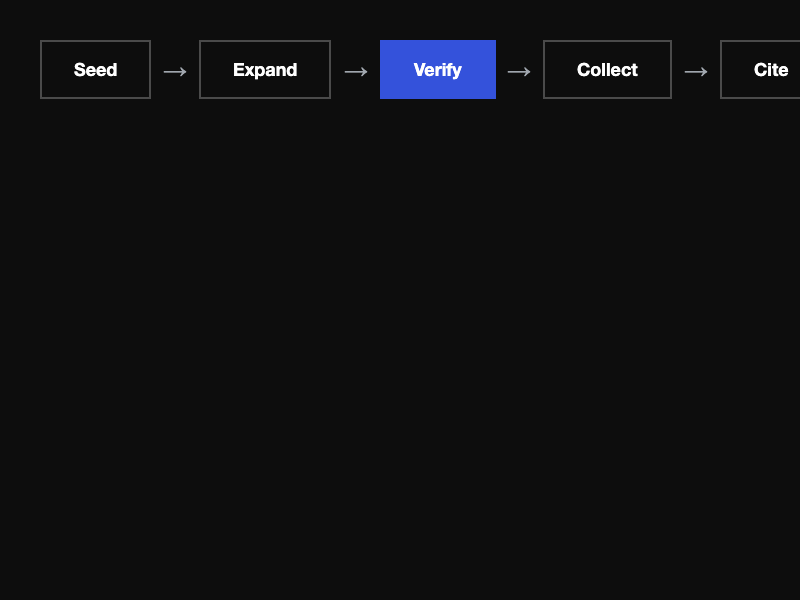
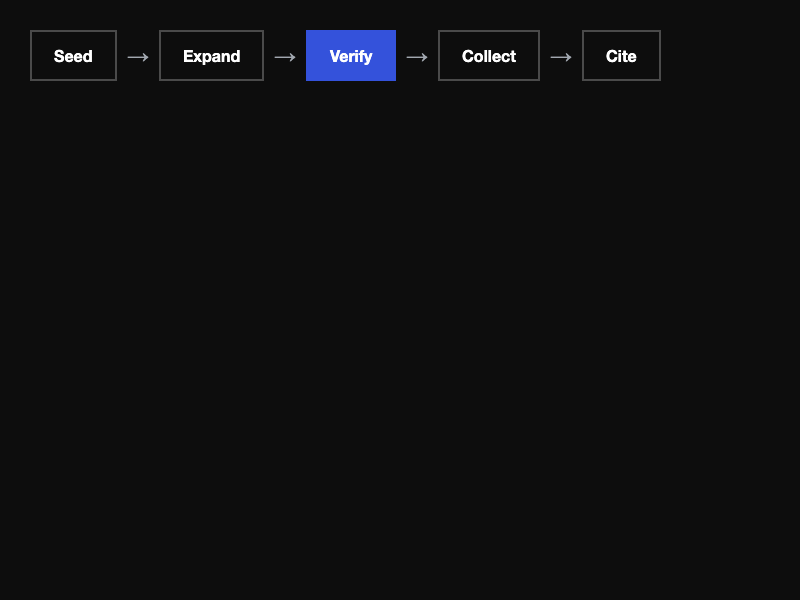
fix: pipeline Cite box clipped, ghost 7%% double-percent, remove slide 13 GIF
- Slide 11: reduced box padding/font so all 5 steps fit in 800px
- Slide 24: fixed %% → % (manual replacement, not Python formatting)
- Slide 13: removed redundant stat counter GIF overlay
- Down to 7 curated GIF overlays

Changed region(s): [[0.0312, 0.03, 0.8438, 0.18], [0.9062, 0.06, 1.0, 0.18], [0.875, 0.09, 0.9062, 0.15]]

diff --git a/build_google_slides.py b/build_google_slides.py
@@ -1,0 +1,178 @@
+#!/usr/bin/env python3
+"""
+Build the SEO Week 2026 presentation in Google Slides.
+Sets PNG backgrounds from GitHub raw URLs + adds curated GIF overlays.
+"""
+
+import os
+import pickle
+from pathlib import Path
+
+from google.auth.transport.requests import Request
+from google_auth_oauthlib.flow import InstalledAppFlow
+from googleapiclient.discovery import build
+
+SCOPES = ["https://www.googleapis.com/auth/presentations"]
+CREDS_FILE = "credentials.json"
+TOKEN_FILE = "token.pickle"
+
+REPO = "https://raw.githubusercontent.com/cyberandy/infinite-context/main"
+
+# ── Slide order (matches slides_v2/) ──────────────────
+SLIDES = [
+    "01_title", "02_weight_problem", "03_query_to_journey", "04_three_shifts",
+    "05_compression_paradox", "06_turboquant", "07_silent_ranking", "08_zero_bias",
+    "09_quant_landscape", "10_turbo_demo", "11_navigator", "12_rlm_demo",
+    "13_conditional_advantage", "14_separation", "15_model_gap", "17_distillation",
+    "18_slm_edge", "19_connected_data", "20_floor_set", "21_moat_graph",
+    "22_seo_playbook_chapter", "23_visibility_shift", "24_ghost_citations",
+    "25_gpt_reads_differently", "26_consistency_not_crawling", "27_explore_verify_cite",
+    "28_autoResearch", "29_well_connected", "30_closing",
+]
+
+# ── Curated GIF overlays (only the ones that earn their pixels) ──
+GIF_MAP = {
+    "06_turboquant": "06_turboquant_counter",
+    "11_navigator": "11_pipeline_steps",
+    "12_rlm_demo": "12_graph_nodes",
+    "17_distillation": "17_distillation_pipeline",
+    "20_floor_set": "20_checklist",
+    "24_ghost_citations": "24_ghost_counter",
+    "26_consistency_not_crawling": "26_consistency_bars",
+}
+
+EMU_PER_PX = 9525  # EMUs per pixel
+SLIDE_W = 1920 * EMU_PER_PX
+SLIDE_H = 1080 * EMU_PER_PX
+GIF_W = 800 * EMU_PER_PX
+GIF_H = 600 * EMU_PER_PX
+
+
+def authenticate():
+    creds = None
+    if os.path.exists(TOKEN_FILE):
+        with open(TOKEN_FILE, "rb") as f:
+            creds = pickle.load(f)
+    if not creds or not creds.valid:
+        if creds and creds.expired and creds.refresh_token:
+            creds.refresh(Request())
+        else:
+            flow = InstalledAppFlow.from_client_secrets_file(CREDS_FILE, SCOPES)
+            creds = flow.run_local_server(port=0)
+        with open(TOKEN_FILE, "wb") as f:
+            pickle.dump(creds, f)
+    return creds
+
+
+def main():
+    print("Authenticating...")
+    creds = authenticate()
+    service = build("slides", "v1", credentials=creds)
+
+    # 1. Create presentation
+    print("Creating presentation...")
+    pres = service.presentations().create(
+        body={"title": "Structure Is the Moat — SEO Week 2026"}
+    ).execute()
+    pres_id = pres["presentationId"]
+    print(f"  ✓ Created: https://docs.google.com/presentation/d/{pres_id}")
+
+    # The new presentation has 1 blank slide — we'll use it for slide 01
+    # and add 28 more
+    existing = pres["slides"]
+    first_slide_id = existing[0]["objectId"]
+
+    # 2. Build batch requests
+    requests = []
+
+    # Create 28 additional blank slides (we already have 1)
+    for i in range(1, len(SLIDES)):
+        slide_id = f"slide_{i:02d}"
+        requests.append({
+            "createSlide": {
+                "objectId": slide_id,
+                "insertionIndex": i,
+                "slideLayoutReference": {"predefinedLayout": "BLANK"},
+            }
+        })
+
+    # Submit slide creation
+    if requests:
+        print(f"  Adding {len(requests)} slides...")
+        service.presentations().batchUpdate(
+            presentationId=pres_id, body={"requests": requests}
+        ).execute()
+
+    # 3. Re-fetch to get all slide IDs
+    pres = service.presentations().get(presentationId=pres_id).execute()
+    all_slides = pres["slides"]
+    print(f"  ✓ Total slides: {len(all_slides)}")
+
+    # 4. Set backgrounds + add GIF overlays
+    requests = []
+    for idx, slide_name in enumerate(SLIDES):
+        slide_obj = all_slides[idx]
+        page_id = slide_obj["objectId"]
+        png_url = f"{REPO}/slides_v2/{slide_name}.png"
+
+        # Set background
+        requests.append({
+            "updatePageProperties": {
+                "objectId": page_id,
+                "pageProperties": {
+                    "pageBackgroundFill": {
+                        "stretchedPictureFill": {
+                            "contentUrl": png_url,
+                        }
+                    }
+                },
+                "fields": "pageBackgroundFill",
+            }
+        })
+
+        # Add GIF overlay if curated
+        if slide_name in GIF_MAP:
+            gif_name = GIF_MAP[slide_name]
+            gif_url = f"{REPO}/content_animations_v2/{gif_name}.gif"
+            img_id = f"gif_{idx:02d}"
+
+            # Center the GIF on the slide
+            left = (SLIDE_W - GIF_W) // 2
+            top = (SLIDE_H - GIF_H) // 2
+
+            requests.append({
+                "createImage": {
+                    "objectId": img_id,
+                    "url": gif_url,
+                    "elementProperties": {
+                        "pageObjectId": page_id,
+                        "size": {
+                            "width": {"magnitude": GIF_W, "unit": "EMU"},
+                            "height": {"magnitude": GIF_H, "unit": "EMU"},
+                        },
+                        "transform": {
+                            "scaleX": 1,
+                            "scaleY": 1,
+                            "translateX": left,
+                            "translateY": top,
+                            "unit": "EMU",
+                        },
+                    },
+                }
+            })
+
+    # Submit in batches (API limit ~500 per batch)
+    batch_size = 50
+    for i in range(0, len(requests), batch_size):
+        batch = requests[i:i + batch_size]
+        print(f"  Applying requests {i+1}–{i+len(batch)} of {len(requests)}...")
+        service.presentations().batchUpdate(
+            presentationId=pres_id, body={"requests": batch}
+        ).execute()
+
+    print(f"\n✓ Done! Open your presentation:")
+    print(f"  https://docs.google.com/presentation/d/{pres_id}/edit")
+
+
+if __name__ == "__main__":
+    main()

diff --git a/generate_animations_v2.py b/generate_animations_v2.py
@@ -243,11 +243,11 @@ ANIMATIONS = [
     ("11_pipeline_steps", "dark", """
     <style>
     @keyframes stepIn{from{opacity:0.15;transform:scale(0.95)}to{opacity:1;transform:scale(1)}}
-    .step{padding:16px 32px;font-size:18px;font-weight:700;border:2px solid rgba(255,255,255,0.25);
+    .step{padding:14px 22px;font-size:16px;font-weight:700;border:2px solid rgba(255,255,255,0.25);
           opacity:0.15;animation:stepIn 0.4s ease-out forwards;font-family:%(font)s;color:white;}
-    .arrow{color:%(gray)s;font-size:24px;opacity:0.15;animation:stepIn 0.3s ease-out forwards;}
+    .arrow{color:%(gray)s;font-size:22px;opacity:0.15;animation:stepIn 0.3s ease-out forwards;}
     </style>
-    <div style="display:flex;align-items:center;gap:12px;padding:40px;">
+    <div style="display:flex;align-items:center;gap:10px;padding:30px;">
       <div class="step" style="animation-delay:0s;">Seed</div>
       <div class="arrow" style="animation-delay:0.3s;">→</div>
       <div class="step" style="animation-delay:0.5s;">Expand</div>
@@ -487,7 +487,7 @@ ANIMATIONS = [
     color:%(berry)s;animation:count7 1.5s steps(5) forwards;}
     </style>
     <div style="padding:40px;font-family:%(font)s;">
-      <div><span class="num"></span><span style="font-size:160px;font-weight:900;color:%(berry)s;">%%</span></div>
+      <div><span class="num"></span><span style="font-size:160px;font-weight:900;color:%(berry)s;">%</span></div>
       <div style="font-size:28px;font-weight:700;color:%(dark)s;margin-top:12px;">Ghost Citations</div>
     </div>"""),
 
